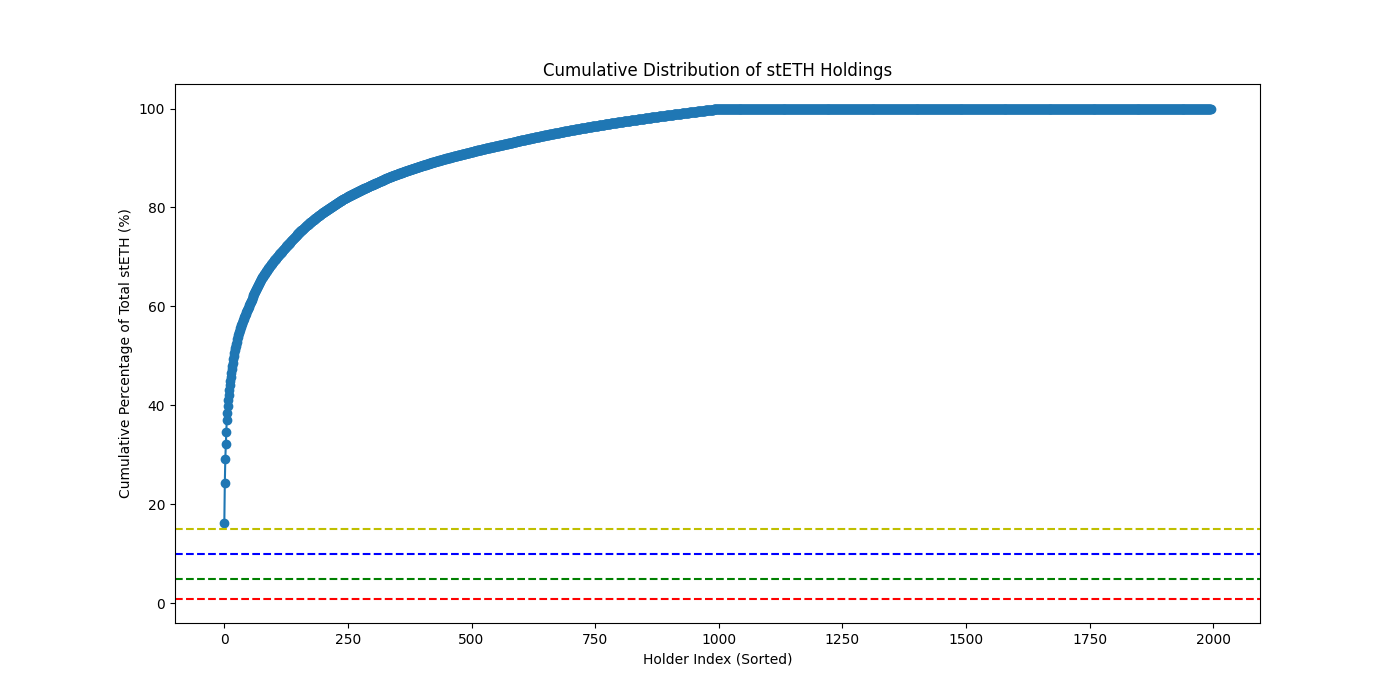
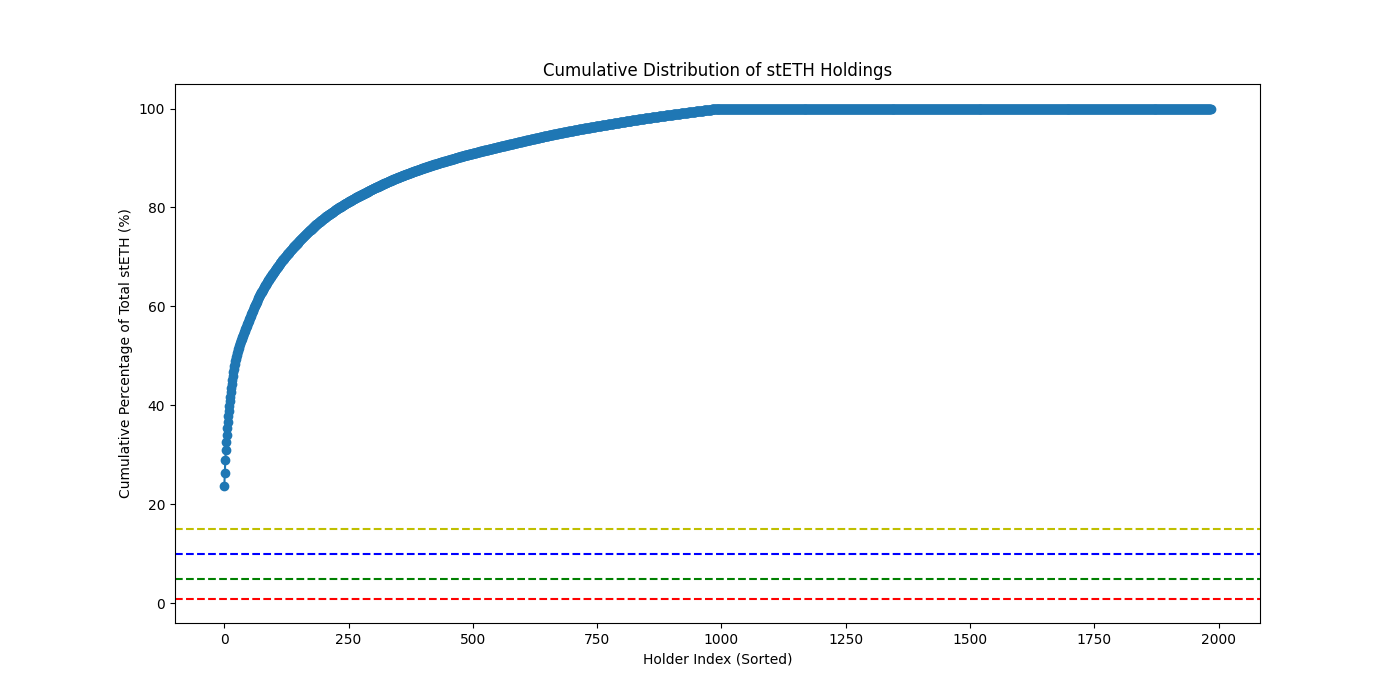
Updated holding numbers to Feb 2025

diff --git a/README.md b/README.md
@@ -116,23 +116,23 @@ Throughout our analysis detailed knowledge of the mechanism and its [publicly av
 
 Our analyses result in the following proposed parameter ranges:
 
-| Parameter                             | Default | Min  | Max | Unit  | Adaptable? |
-|:--------------------------------------|:--------|:-----|:----|:------|:-----------|
-| FirstSealRageQuitSupport    $R_1$     | 1       | 0.17 | 1.6 | %     | x          |
-| SecondSealRageQuitSupport   $R_2$     | 10      | 10   | 30  | %     |            |
-| ProposalExecutionMinTimelock          | 3       | 2    | 7   | days  | x          |
-| DynamicTimelockMinDuration $L_min$    | 5       | 3    | 7   | days  |            |
-| DynamicTimelockMaxDuration $L_max$    | 45      | 30   | 75  | days  |            |
-| SignallingEscrowMinLockTime           | 5       | 4    | 6   | hrs   | x          |
-| VetoSignallingMinActiveDuration       | 5       | 3    | 9   | hrs   | x          |
-| VetoSignallingDeactivationMaxDuration | 3       | 1    | 3   | days  |            |
-| VetoCooldownDuration                  | 5       | 4    | 12  | hrs   | x          |
-| RageQuitExtensionPeriodDuration       | 7       | 7    | 14  | days  |            |
-| RageQuitEthWithdrawalsMinDelay        | 60      | 45   | 90  | days  |            |
-| RageQuitEthWithdrawalsMaxDelay        | 180     | 150  | 240 | days  |            |
-| RageQuitEthWithdrawalsDelayGrowth     | 15      | 15   | 45  | days  |            |
-| TiebreakerExecutionTimelock           | 1       | -    | -   | month |            |
-| TieBreakerActivationTimeout           | 1       | -    | -   | year  |            |
+| Parameter                             | Default | Min  | Max  | Unit  | Adaptable? |
+|:--------------------------------------|:--------|:-----|:-----|:------|:-----------|
+| FirstSealRageQuitSupport    $R_1$     | 1       | 0.15 | 1.36 | %     | x          |
+| SecondSealRageQuitSupport   $R_2$     | 10      | 10   | 30   | %     |            |
+| ProposalExecutionMinTimelock          | 3       | 2    | 7    | days  | x          |
+| DynamicTimelockMinDuration $L_min$    | 5       | 3    | 7    | days  |            |
+| DynamicTimelockMaxDuration $L_max$    | 45      | 30   | 75   | days  |            |
+| SignallingEscrowMinLockTime           | 5       | 4    | 6    | hrs   | x          |
+| VetoSignallingMinActiveDuration       | 5       | 3    | 9    | hrs   | x          |
+| VetoSignallingDeactivationMaxDuration | 3       | 1    | 3    | days  |            |
+| VetoCooldownDuration                  | 5       | 4    | 12   | hrs   | x          |
+| RageQuitExtensionPeriodDuration       | 7       | 7    | 14   | days  |            |
+| RageQuitEthWithdrawalsMinDelay        | 60      | 45   | 90   | days  |            |
+| RageQuitEthWithdrawalsMaxDelay        | 180     | 150  | 240  | days  |            |
+| RageQuitEthWithdrawalsDelayGrowth     | 15      | 15   | 45   | days  |            |
+| TiebreakerExecutionTimelock           | 1       | -    | -    | month |            |
+| TieBreakerActivationTimeout           | 1       | -    | -    | year  |            |
 
 
 `Default` refers to values proposed in the initial spec. `Adaptable?` parameters are ones which should be monitored in practice - they are possibly used even though it does not come to a rage quit event. E.g. if `FirstSealRageQuitSupport` is chosen too small and a repeated invoking and thereby halting of the protocol is observed, the parameter can be adapted upwards.
@@ -421,7 +421,7 @@ For that reason, it might take time for DAO members and then also (w)stETH holde
 
 In that context it is also important to realize that the dual governance mechanisms plays a crucial role in creating attention through the inflow and the possible activation of a state change.
 
-Yet, for this mechanism to actually work, it is key to understand how easy such an inflow actually is. For that purpose, we have done some simple empirical analyses based on the current token distribution (data provided by the Lido team).
+Yet, for this mechanism to actually work, it is key to understand how easy such an inflow actually is. For that purpose, we have done some simple empirical analyses based on the current token distribution (data provided by the Lido team and dated February 2025).
 
 The following two graphics show the distribution of stETH (wstETH) ordered by holding size. Included in the figure (horizontal lines) are several key thresholds.
 
@@ -429,7 +429,7 @@ The following two graphics show the distribution of stETH (wstETH) ordered by ho
 
 ![Total distribution of wstETH](./figures/wsteth_distribution.png)
 
-These figures suggest that a significant number of entities can activate parts of the dual governance mechanism single-handedly (at the time of writing 1 can single-handedly cause a rage quit; 13 entities can cause the mechanism to switch to veto-signalling).
+These figures suggest that a significant number of entities can activate parts of the dual governance mechanism single-handedly (at the time of writing 3 can single-handedly cause a rage quit; 12 entities can cause the mechanism to switch to veto-signalling).
 
 However, considering the total amount of tokens provides us only with a partial picture. A large chunk of tokens are stored in contracts or locked up. Which means they might not be easily transferred into the escrow - or at least this might take time and might also be associated with costs.
 
@@ -440,7 +440,7 @@ The following two graphs show the distribution of tokens that can be identified 
 
 ![Distribution of wstETH with privateentities](./figures/private_wsteth_distribution_to_total.png)
 
-As one can see the picture looks significantly different. As only around 35% of stETH and 15% wstETH are held by private wallets, on a short term notice only a significantly lower share of tokens can be moved in the escrow to activate the dual governance mechanism.
+As one can see the picture looks significantly different. As around 43% of stETH and 17% of wstETH are held by private wallets, on a short term notice only a significantly lower share of tokens can be moved in the escrow to activate the dual governance mechanism.
 
 Now, let us further assume a proposal has been flagged as critical by some agents. We posit that once a certain attention level is crossed, the overall evaluation mechanism, i.e. different agents looking and assessing a given proposal is quite fast.
 
@@ -489,7 +489,7 @@ This also means that sufficient tokens have to be transferred into the Dual Gove
 
 To pick the parameters, as we noted above, this depends on two factors: 1. How fast does information spread? 2. How fast can (w)stETH holders react?
 
-Starting with the latter observation, we can easily bound the value for the `FirstSealRageQuitSupport` from above: The fraction of tokens that are short-term available. As the time of writing (January 2025) this is roughly 0.39 percent of overall value.
+Starting with the latter observation, we can easily bound the value for the `FirstSealRageQuitSupport` from above: The fraction of tokens that are short-term available. As an approximation we consider wallet accounts that are not bound in contracts. From a data set we received (February 2025), which covers about 81% of (w)stETH holdings, this is about 0.33 percent of overall value.
 
 Now, this upper bound presupposes that all of this value is directly available _and_ that the agents behind are informed about the proposal, and share the view that it is possibly malicious. This is evidently unrealistic. As discussed above, we focus on the idea that the mechanism is meant to stop a bad proposal. So, we assume for now that once informed agents will recognize the malicious attack and aim to get their own assets in safe harbor and ignore any strategic considerations.
 
@@ -497,22 +497,22 @@ In this case, the key question becomes which share of (w)stETH holders get aware
 
 Key assumptions are the initial fraction of informed parties $f0$ and how fast information spread grows $lambda$. We also assume that availability of transferrable tokens increases over time. We apply conservative estimates of 40% of the privately held (w)stETH value being available after 5 days; 10% within 24hrs and linearly extended in between.
 
-|     f0 | lambda |       24hrs |       48hrs |       72hrs |       96hrs |
-|-------:|-------:|------------:|------------:|------------:|------------:|
-| 0.0001 |  0.025 | 7.10568e-06 | 2.58909e-05 | 7.07452e-05 | 0.000171789 |
-| 0.0001 |   0.05 | 1.29455e-05 | 8.58947e-05 |  0.00042668 |  0.00187299 |
-| 0.0001 |    0.1 | 4.29473e-05 | 0.000936496 |   0.0138214 |   0.0930111 |
-| 0.0001 |    0.2 | 0.000468248 |   0.0465055 |    0.116352 |    0.155993 |
-|  0.001 |  0.025 | 7.10043e-05 |  0.00025837 | 0.000704253 |  0.00170255 |
-|  0.001 |   0.05 | 0.000129185 | 0.000851275 |   0.0041348 |    0.016917 |
-|  0.001 |    0.1 | 0.000425638 |  0.00845848 |   0.0670165 |    0.146114 |
-|  0.001 |    0.2 |  0.00422924 |   0.0730569 |    0.116935 |    0.155999 |
-|   0.01 |  0.025 | 0.000704832 |  0.00253097 |  0.00673785 |   0.0156296 |
-|   0.01 |   0.05 |  0.00126548 |  0.00781479 |   0.0315785 |   0.0859625 |
-|   0.01 |    0.1 |  0.00390739 |   0.0429812 |    0.108947 |    0.154961 |
-|   0.01 |    0.2 |   0.0214906 |   0.0774805 |    0.116994 |       0.156 |
+|     f0 |   lambda |      log_24 |      log_48 |      log_72 |     log_96 |
+|-------:|---------:|------------:|------------:|------------:|-----------:|
+| 0.0001 |    0.025 | 6.0125e-06  | 2.19077e-05 | 5.98613e-05 | 0.00014536 |
+| 0.0001 |    0.05  | 1.09538e-05 | 7.26801e-05 | 0.000361037 | 0.00158484 |
+| 0.0001 |    0.1   | 3.63401e-05 | 0.000792419 | 0.0116951   | 0.0787017  |
+| 0.0001 |    0.2   | 0.00039621  | 0.0393508   | 0.0984513   | 0.131994   |
+| 0.001  |    0.025 | 6.00805e-05 | 0.00021862  | 0.000595906 | 0.00144062 |
+| 0.001  |    0.05  | 0.00010931  | 0.00072031  | 0.00349868  | 0.0143143  |
+| 0.001  |    0.1   | 0.000360155 | 0.00715717  | 0.0567063   | 0.123635   |
+| 0.001  |    0.2   | 0.00357859  | 0.0618174   | 0.0989449   | 0.131999   |
+| 0.01   |    0.025 | 0.000596396 | 0.00214159  | 0.00570126  | 0.013225   |
+| 0.01   |    0.05  | 0.00107079  | 0.00661251  | 0.0267203   | 0.0727375  |
+| 0.01   |    0.1   | 0.00330626  | 0.0363687   | 0.0921863   | 0.131121   |
+| 0.01   |    0.2   | 0.0181844   | 0.0655604   | 0.0989945   | 0.132      |
 
-As one can see from the table a wide range of scenarios is plausible. In the absence of more precise analyses and taking the perspective of the mechanism to be a safety hatch, it makes sense to be conservative and rather err on the side of making the mechanism sufficiently sensitive. When considering the percentiles from 10% to 30%, this gives us a range of 0.0017 to 0.0160.
+As one can see from the table a wide range of scenarios is plausible. In the absence of more precise analyses and taking the perspective of the mechanism to be a safety hatch, it makes sense to be conservative and rather err on the side of making the mechanism sufficiently sensitive. When considering the percentiles from 10% to 30%, this gives us a range of 0.0015 to 0.0136.
 
 The downside of a low threshold is evidently that the mechanism could be triggered for other reasons. Yet, if this happens and it turns out the threshold is too sensitive, it can be adjusted upward over time. Moreover, the initiation per se is not too costly. The main question is how long the mechanism will stay in this state.
 
@@ -607,23 +607,23 @@ As we discussed before the committees are rather opaque. At this stage we do not
 
 Taken together, our analyses result in the following proposed parameter ranges:
 
-| Parameter                             | Default | Min  | Max | Unit  | Adaptable? |
-|:--------------------------------------|:--------|:-----|:----|:------|:-----------|
-| FirstSealRageQuitSupport    $R_1$     | 1       | 0.17 | 1.6 | %     | x          |
-| SecondSealRageQuitSupport   $R_2$     | 10      | 10   | 30  | %     |            |
-| ProposalExecutionMinTimelock          | 3       | 2    | 7   | days  | x          |
-| DynamicTimelockMinDuration $L_min$    | 5       | 3    | 7   | days  |            |
-| DynamicTimelockMaxDuration $L_max$    | 45      | 30   | 75  | days  |            |
-| SignallingEscrowMinLockTime           | 5       | 4    | 6   | hrs   | x          |
-| VetoSignallingMinActiveDuration       | 5       | 3    | 9   | hrs   | x          |
-| VetoSignallingDeactivationMaxDuration | 3       | 1    | 3   | days  |            |
-| VetoCooldownDuration                  | 5       | 4    | 12  | hrs   | x          |
-| RageQuitExtensionPeriodDuration       | 7       | 7    | 14  | days  |            |
-| RageQuitEthWithdrawalsMinDelay        | 60      | 45   | 90  | days  |            |
-| RageQuitEthWithdrawalsMaxDelay        | 180     | 150  | 240 | days  |            |
-| RageQuitEthWithdrawalsDelayGrowth     | 15      | 15   | 45  | days  |            |
-| TiebreakerExecutionTimelock           | 1       | -    | -   | month |            |
-| TieBreakerActivationTimeout           | 1       | -    | -   | year  |            |
+| Parameter                             | Default | Min  | Max  | Unit  | Adaptable? |
+|:--------------------------------------|:--------|:-----|:-----|:------|:-----------|
+| FirstSealRageQuitSupport    $R_1$     | 1       | 0.15 | 1.36 | %     | x          |
+| SecondSealRageQuitSupport   $R_2$     | 10      | 10   | 30   | %     |            |
+| ProposalExecutionMinTimelock          | 3       | 2    | 7    | days  | x          |
+| DynamicTimelockMinDuration $L_min$    | 5       | 3    | 7    | days  |            |
+| DynamicTimelockMaxDuration $L_max$    | 45      | 30   | 75   | days  |            |
+| SignallingEscrowMinLockTime           | 5       | 4    | 6    | hrs   | x          |
+| VetoSignallingMinActiveDuration       | 5       | 3    | 9    | hrs   | x          |
+| VetoSignallingDeactivationMaxDuration | 3       | 1    | 3    | days  |            |
+| VetoCooldownDuration                  | 5       | 4    | 12   | hrs   | x          |
+| RageQuitExtensionPeriodDuration       | 7       | 7    | 14   | days  |            |
+| RageQuitEthWithdrawalsMinDelay        | 60      | 45   | 90   | days  |            |
+| RageQuitEthWithdrawalsMaxDelay        | 180     | 150  | 240  | days  |            |
+| RageQuitEthWithdrawalsDelayGrowth     | 15      | 15   | 45   | days  |            |
+| TiebreakerExecutionTimelock           | 1       | -    | -    | month |            |
+| TieBreakerActivationTimeout           | 1       | -    | -    | year  |            |
 
 
 `Default` refers to values proposed in the initial spec. `Adaptable?` parameters are ones which should be monitored in practice - they are possibly used even though it does not come to a rage quit event. E.g. if `FirstSealRageQuitSupport` is chosen too small and a repeated invoking and thereby halting of the protocol is observed, the parameter can be adapted upwards.
